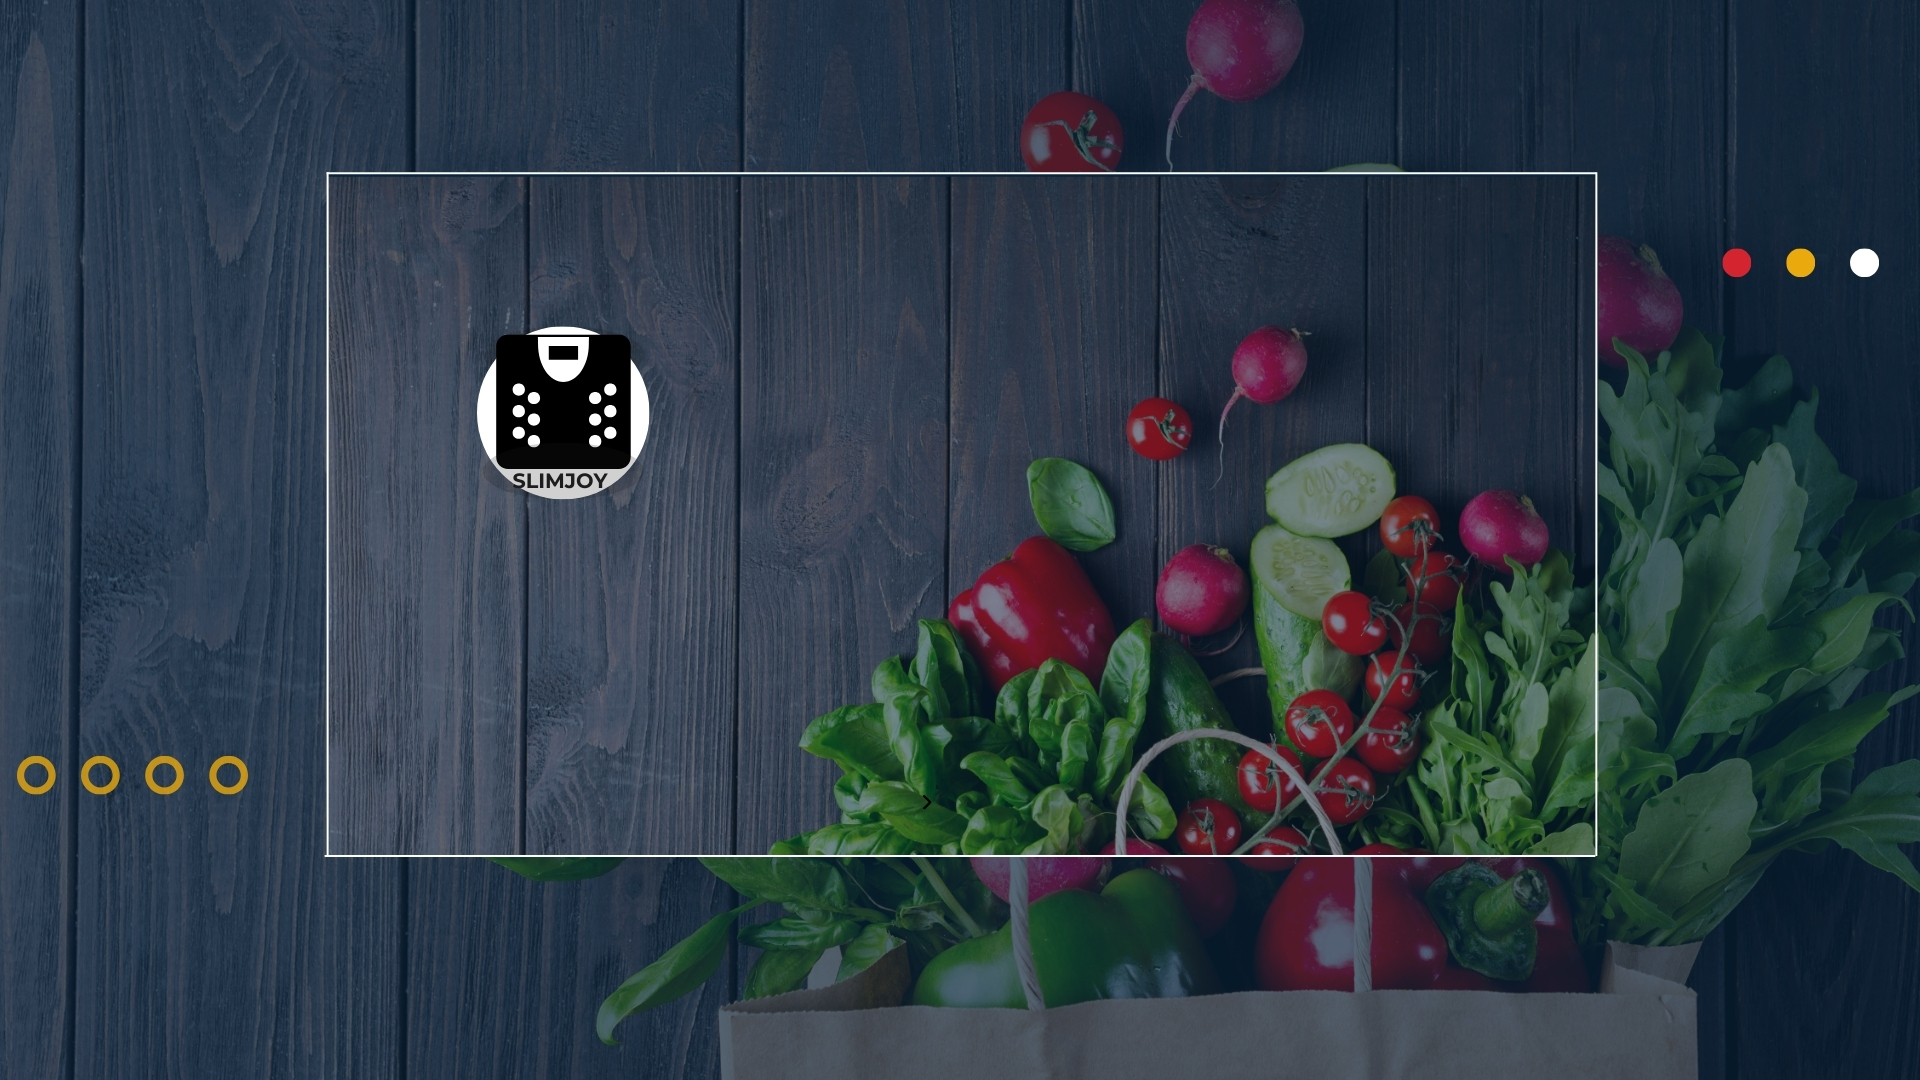
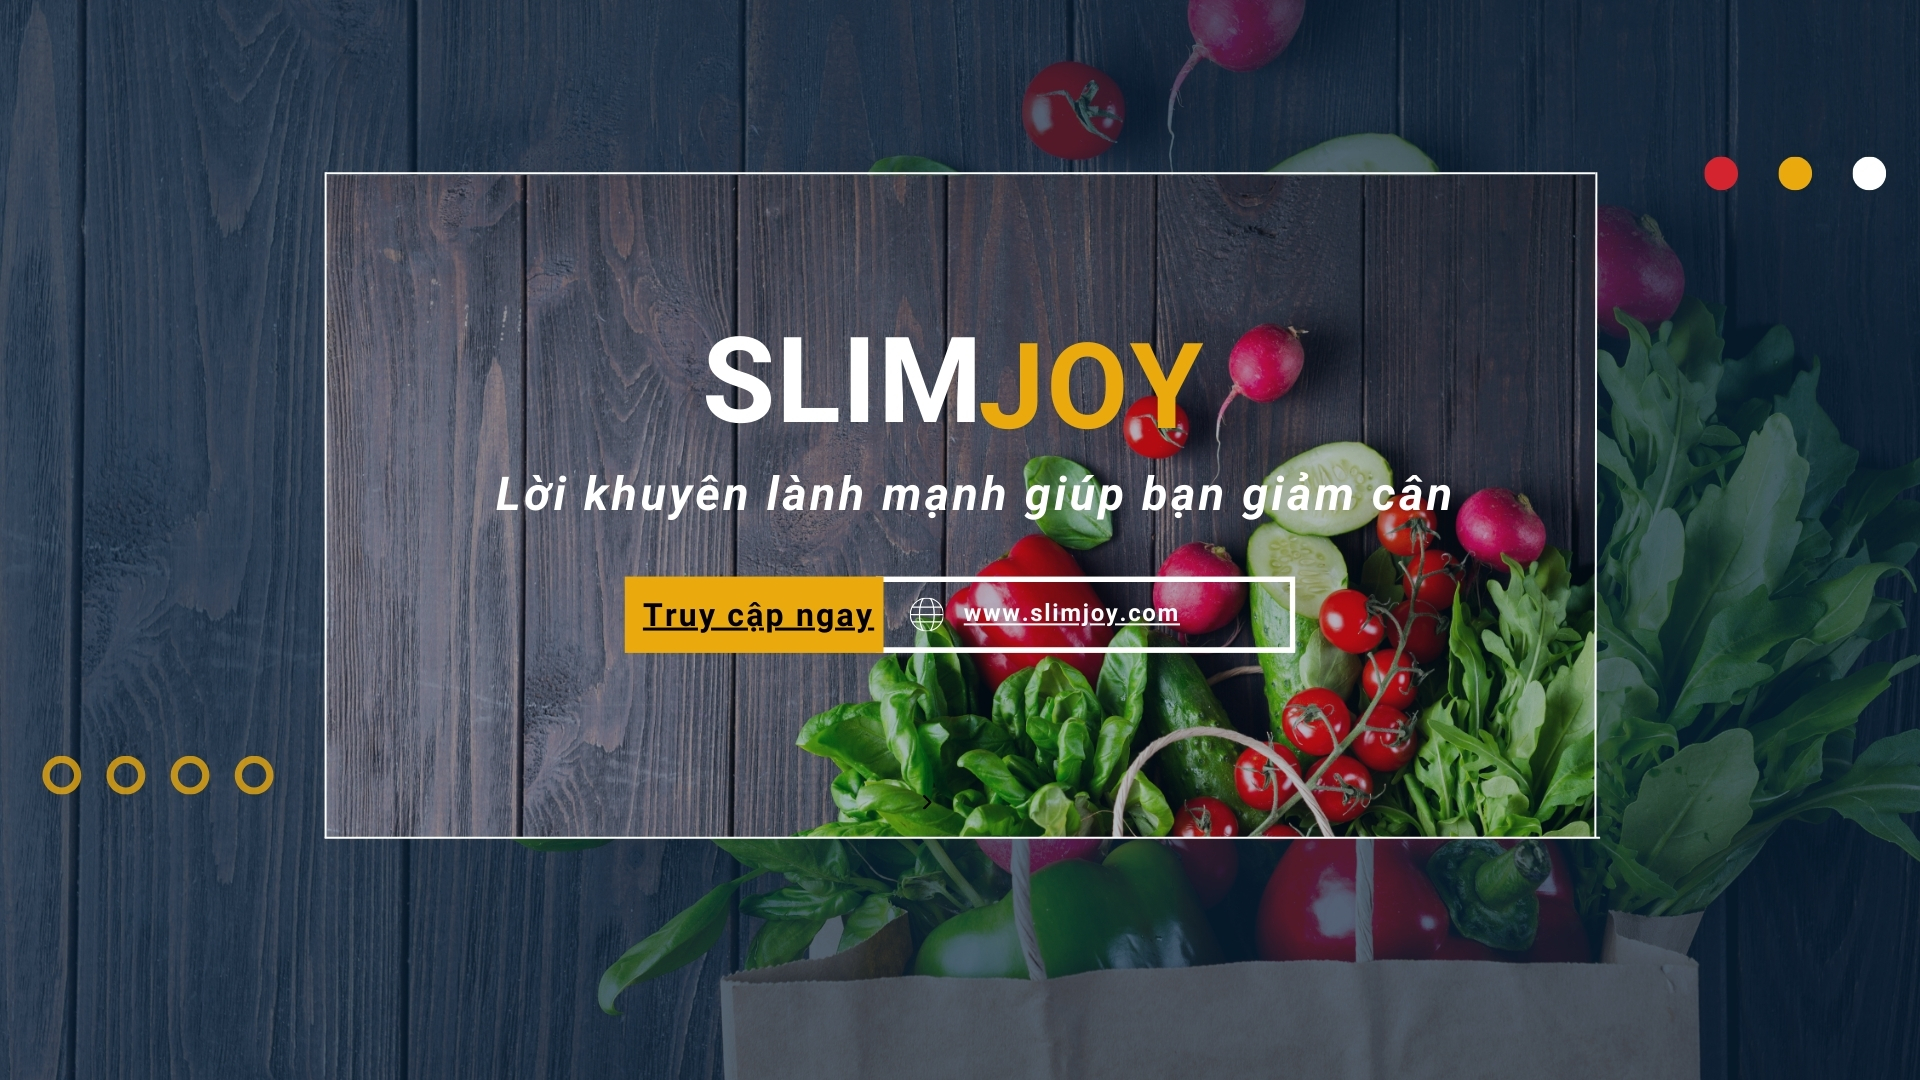
ok

diff --git a/styles.css b/styles.css
@@ -78,20 +78,10 @@ nav ul li a {
 
 .account-actions button {
   padding: 15px 15px; /* Đặt đệm cho nút */
-  background-color: #06dddde5; /* Đặt màu nền cho nút */
+  background: linear-gradient(120deg, #ab0558e6 0%, #66a6ff 100%); /* Gradient tuyến tính cho nền */
   cursor: pointer; /* Thay đổi con trỏ chuột khi rê lên nút */
 }
 
-
-/* Đặt lề và đệm cho toàn bộ trang là 0 để không có khoảng trắng ngoài cùng */
-body, html {
-  margin: 0;
-  padding: 0;
-  /* Đặt chiều cao của toàn bộ trang bằng với chiều cao của viewport */
-  height: 100%;
-  /* Đặt hình nền, căn giữa và kích thước phù hợp với màn hình */
-  background-size: cover;
-}
 
 /* Thiết lập container để chứa nội dung, sử dụng flexbox để căn giữa nội dung */
 .container {

diff --git a/index.html b/index.html
@@ -18,7 +18,7 @@
   <div class="navbar">
     <nav>
       <ul>
-        <li><a href="#trang-chu" id="large-text"><u>Trang chủ</u></a></li>
+        <li><a href="trangchu.html" id="large-text"><u>Trang chủ</u></a></li>
         <li><a href="gioithieu.html" id="large-text">Giới thiệu</a><li>
         <li><a href="danhgia.html" id="large-text">Xem đánh giá</a></li>
         <li><a href="thongbao.html" id="large-text">Thông báo</a></li>
@@ -34,8 +34,8 @@
   
   <div class="container">
     <div class="slogan">
-      <h1>SLIMJOY</h1>
-        Lời khuyên lành mạnh giúp bạn giảm cân
+      <br/>  <br/> 
+      <br/>   <br/>
     </div>
     <div class="cta-buttons">
       <style>

diff --git a/trangchu.html b/trangchu.html
@@ -32,8 +32,8 @@
   
   <div class="container">
     <div class="slogan">
-      <h1>SLIMJOY</h1>
-        Lời khuyên lành mạnh giúp bạn giảm cân
+      <br/>       <br/> 
+      <br/>     <br/> 
     </div>
     <div class="cta-buttons">
       <style>
